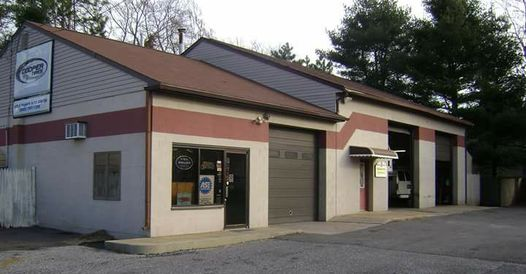
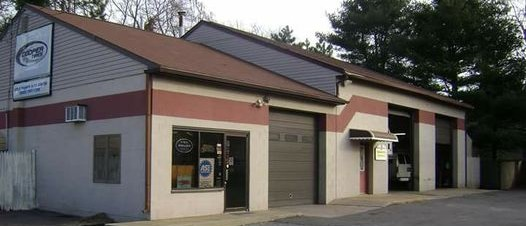
Finished css

diff --git a/style.css b/style.css
@@ -1,0 +1,77 @@
+body {
+
+  font-size: large;
+  padding: 0;
+  margin: 0;
+  display: flex;
+  flex-direction: column;
+  align-items: center;
+  justify-content: space-between;
+  font-family: Arial, Helvetica, sans-serif;
+}
+
+header {
+  background-color: #B3B6B7;
+  color: #2B2118;
+  width: 100%;
+  display: flex;
+  justify-content: space-between;
+  align-items: center;
+}
+
+h1 {
+  font-size: 72px;
+  padding-left: 10%;
+}
+
+#separating-image img {
+  width: initial
+}
+
+main {
+  display: flex;
+  flex-direction: column;
+  gap: 10px;
+  background-color: #F7F3E3;
+  box-sizing: border-box;
+  width: 100%;
+  padding: 1% 10%;
+}
+
+h2 {
+  font-size: 36px;
+}
+
+#about p {
+  padding-left: 50px;
+  width: 70%;
+}
+
+ul {
+  list-style: none;
+  padding-left: 50px;
+}
+
+li {
+  padding-bottom: 20px;
+}
+
+footer {
+  background-color: #6F1A07;
+  color: #F7F3E3;
+  display: flex;
+  justify-content: space-between;
+  box-sizing: border-box;
+  width: 100%;
+  padding: 10px 10%;
+  align-items: center;
+}
+
+footer a {
+  text-decoration: none;
+  color: inherit
+}
+
+#location {
+  text-align: center;
+}

diff --git a/index.html b/index.html
@@ -4,12 +4,16 @@
   <meta charset="utf-8">
   <title>Add & Franks</title>
   <link rel="icon" type="image/x-icon" href="./images/favicon.ico">
+  <link rel="stylesheet" href="./style.css">
 </head>
 <body>
   <header>
     <h1>Add & Frank's Auto Center</h1>
+    <div id="separating-image">
+      <img src="./images/shop.jpg" alt="Add & Franks Shop">
+    </div>
   </header>
-  <img src="./images/shop.jpg" alt="Add & Franks Shop">
+  
   <main>
     <div id="hours">
       <h2>Hours of Operation</h2>
@@ -21,6 +25,7 @@
        <li>Friday: 8:30am - 5:00pm</li>
        <li>Saturday: CLOSED</li>
        <li>Sunday: CLOSED</li>
+       * Hours are Subject to Change
       </ul>
     </div>
     <div id="about">
@@ -31,7 +36,6 @@
     <footer>
       <div id="contact">
         <a href="tel:+18567671126">(856) 767-1126</a>
-        
       </div>
       
       <div id="location">
